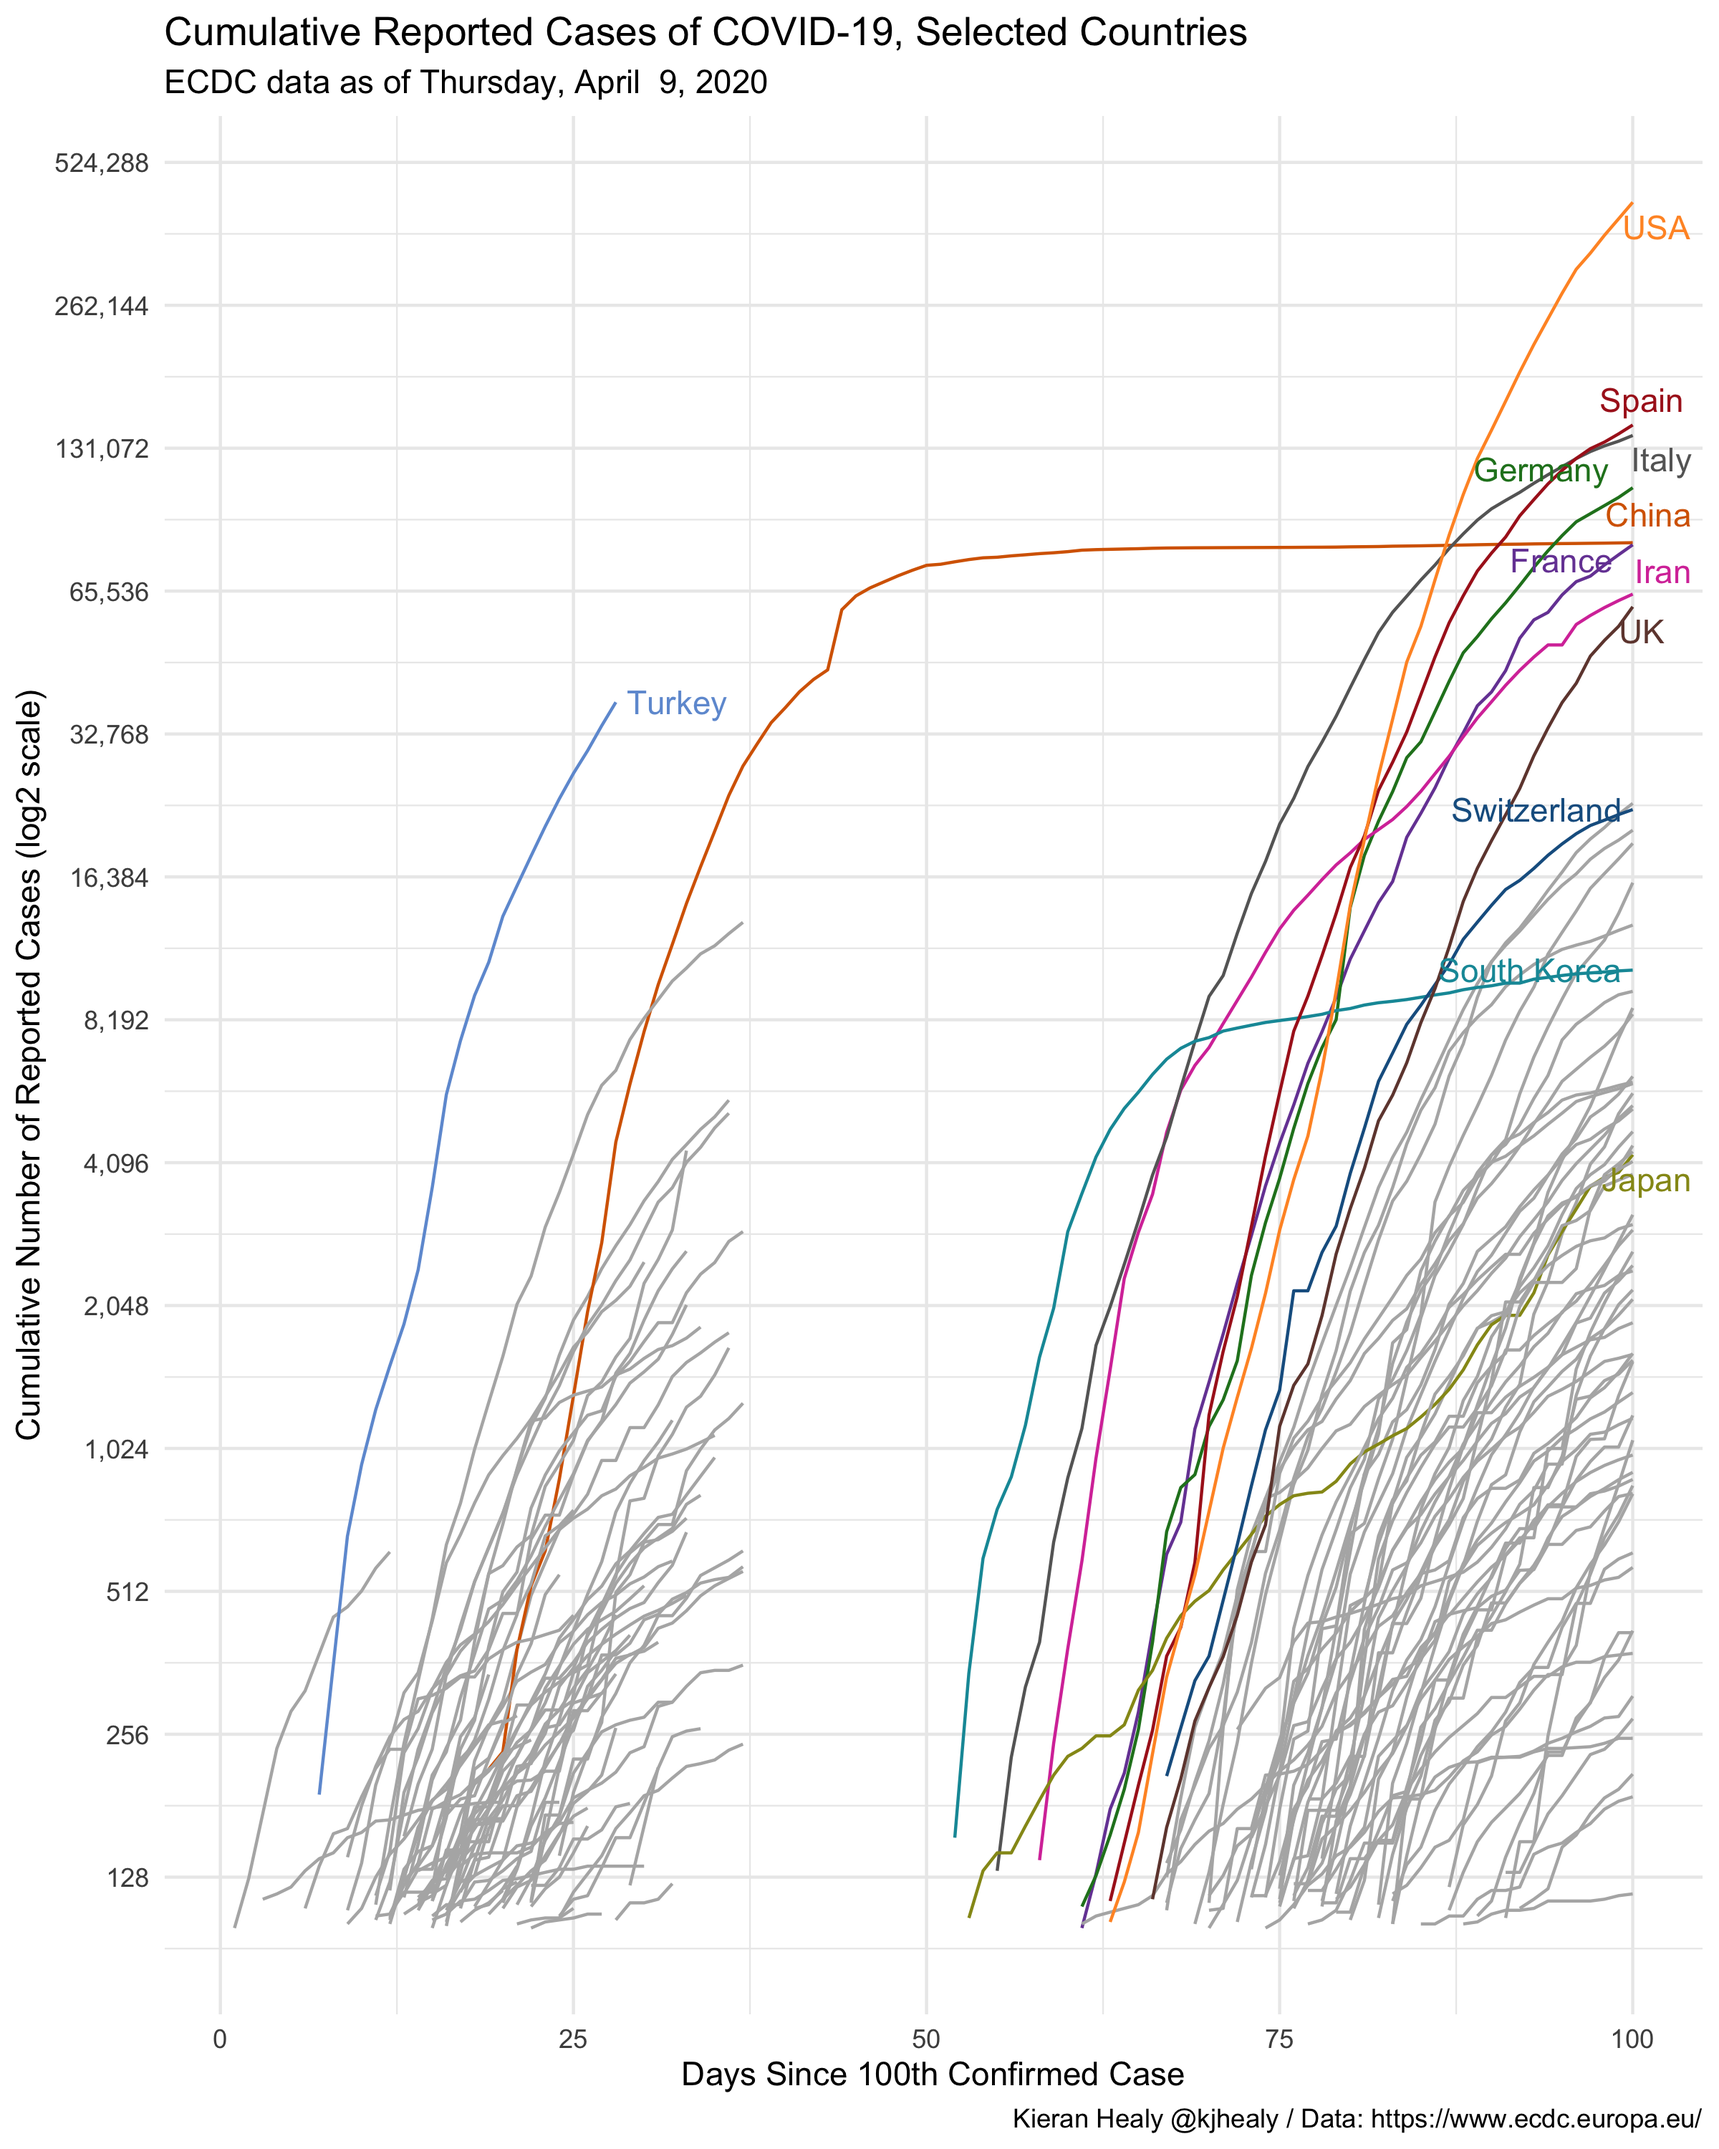
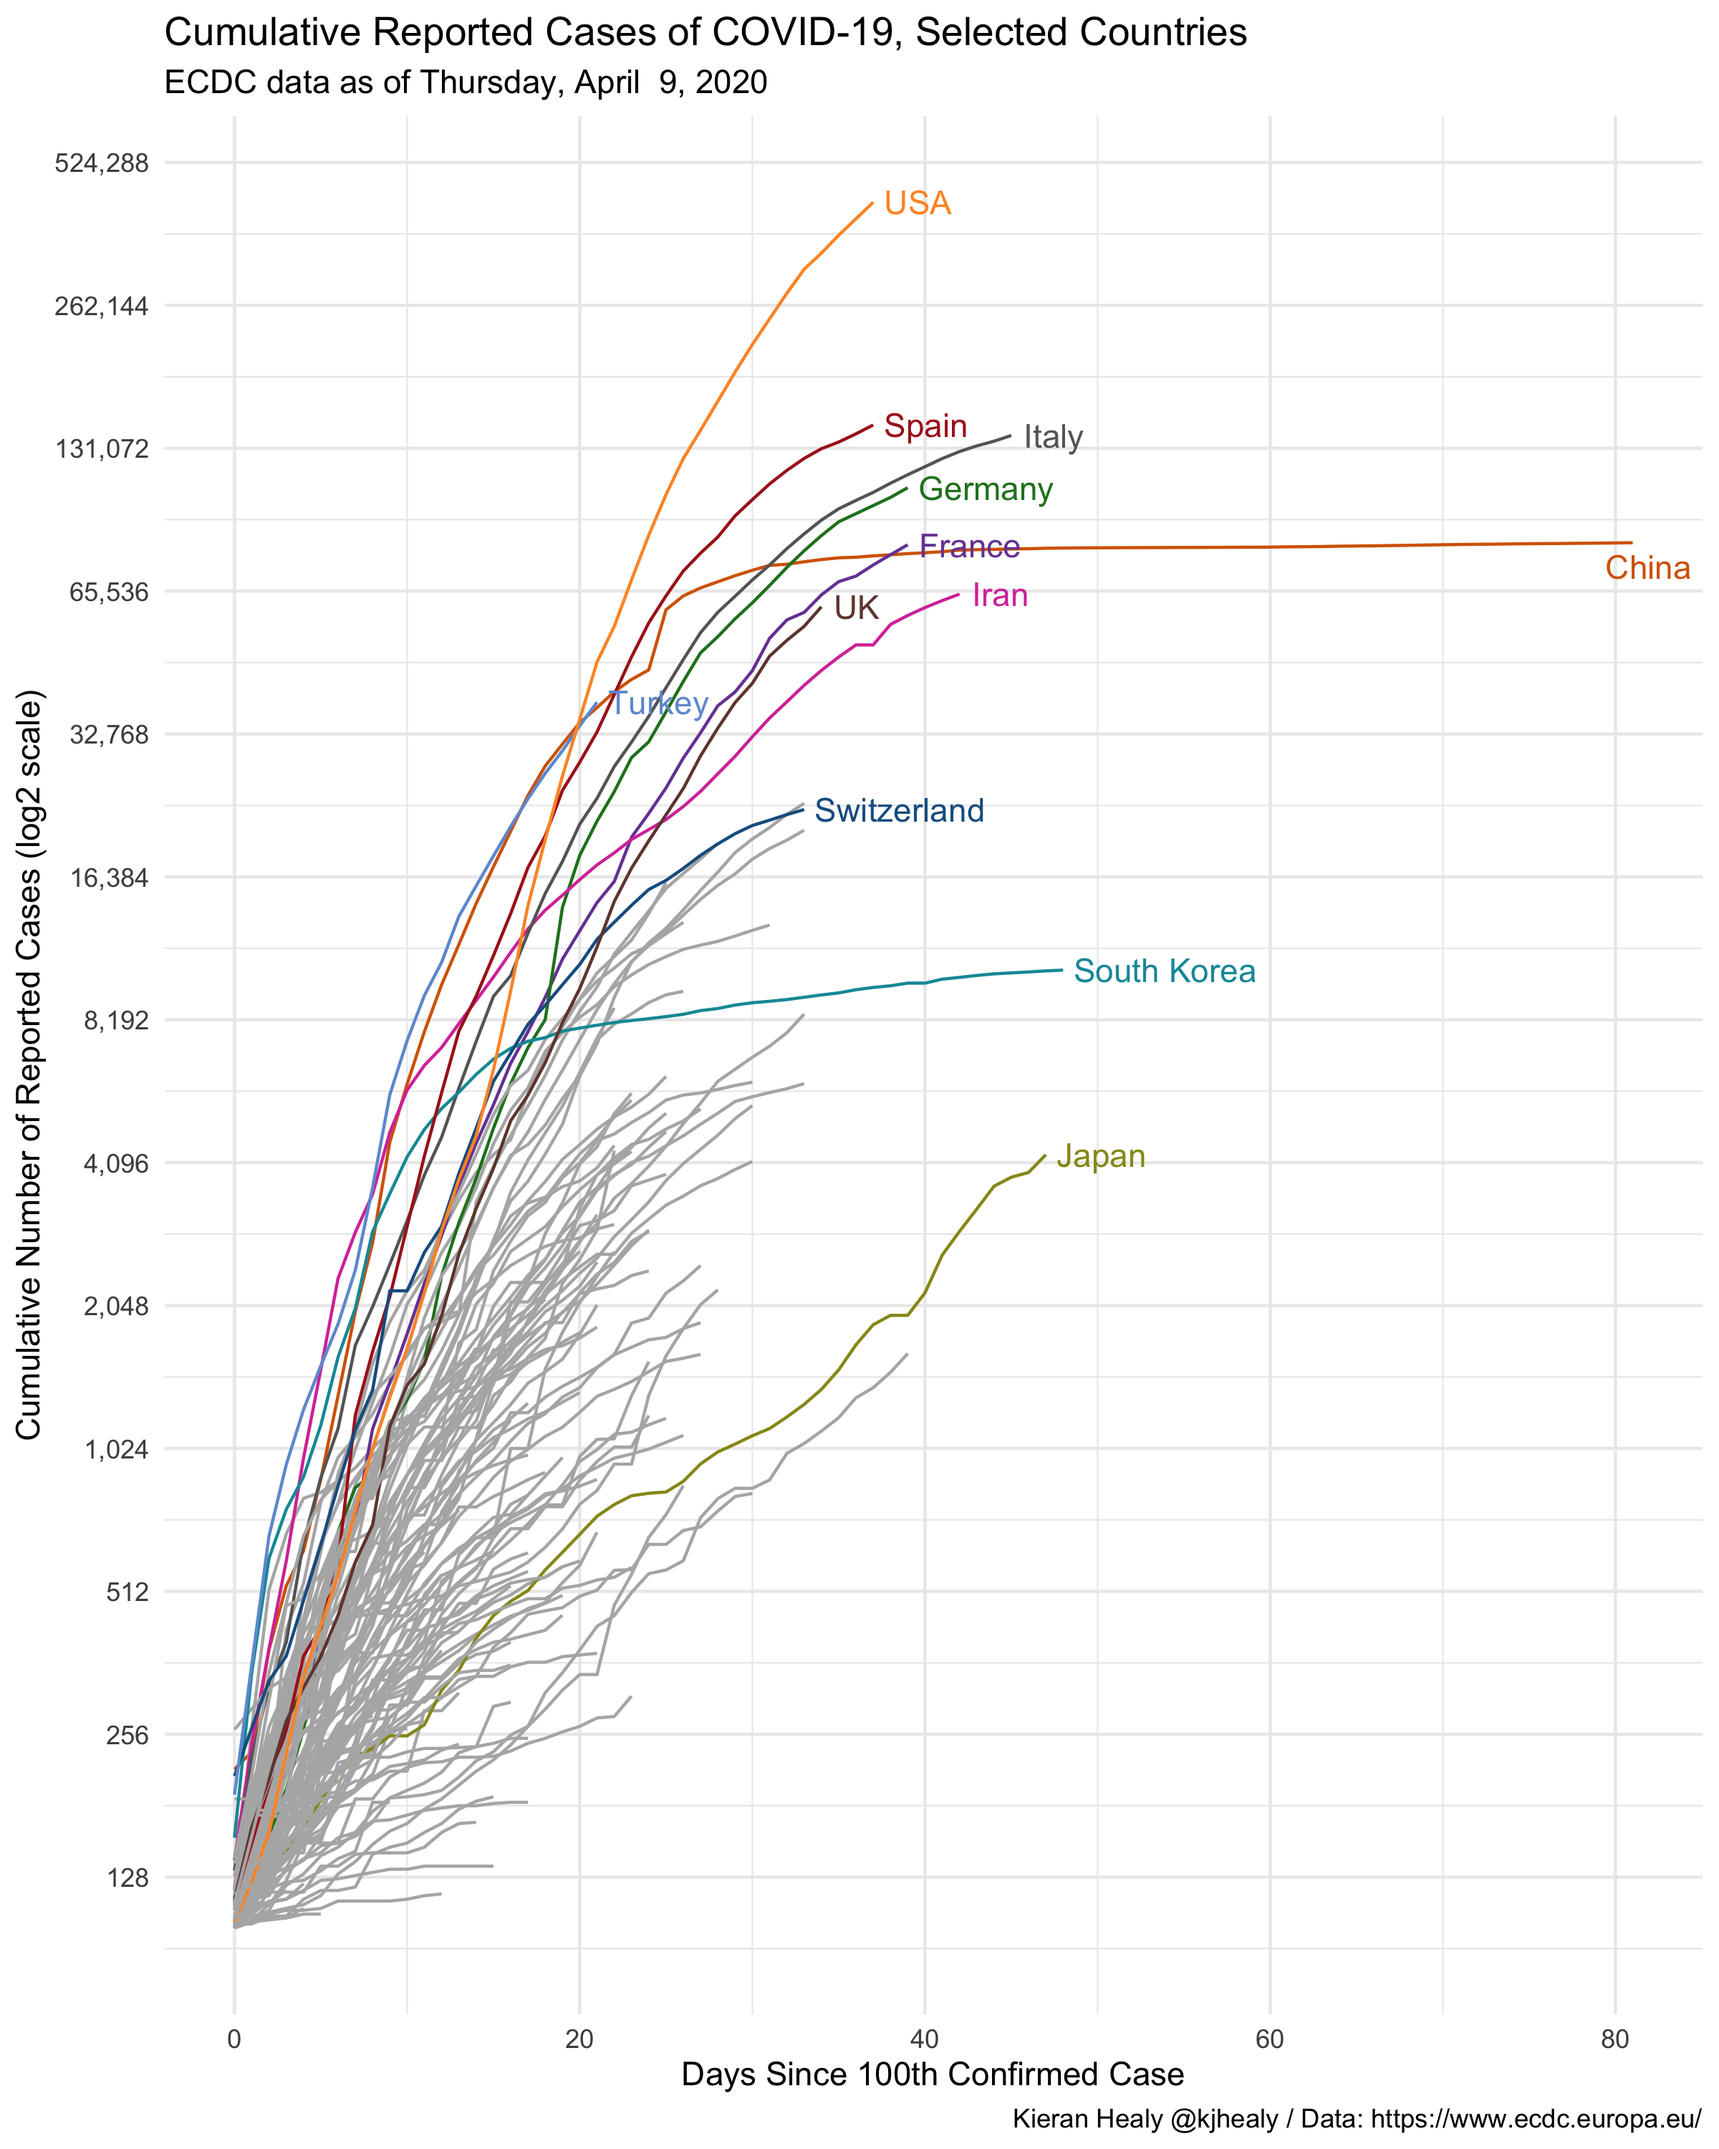
Fix dataset and plot errors

diff --git a/README.md b/README.md
@@ -15,7 +15,7 @@ The goal of covdata is to make COVID-19 case data easily available.
 `covdata` is not available on CRAN. You can install it with `remotes::install_github("kjheay/covdata")`.
 
 
-## Example
+## Country-level Data
 
 
 ```r
@@ -29,13 +29,22 @@ focus_cn <- c("CHN", "DEU", "GBR", "USA", "IRN", "JPN",
 ## Colors
 cgroup_cols <- c(prismatic::clr_darken(paletteer_d("ggsci::category20_d3"), 0.2)[1:length(focus_cn)], "gray70")
 
-
 covnat %>%
-  mutate(end_label = case_when(iso3 %in% focus_cn ~ end_label,
+  filter(cu_cases > 99) %>%
+  mutate(days_elapsed = date - min(date),
+        end_label = ifelse(date == max(date), cname, NA),
+        end_label = recode(end_label, `United States` = "USA",
+                            `Iran, Islamic Republic of` = "Iran",
+                            `Korea, Republic of` = "South Korea",
+                            `United Kingdom` = "UK"),
+         cname = recode(cname, `United States` = "USA",
+                        `Iran, Islamic Republic of` = "Iran",
+                        `Korea, Republic of` = "South Korea",
+                        `United Kingdom` = "UK"),
+         end_label = case_when(iso3 %in% focus_cn ~ end_label,
                                TRUE ~ NA_character_), 
          cgroup = case_when(iso3 %in% focus_cn ~ iso3, 
                             TRUE ~ "ZZOTHER")) %>%
-  filter(cu_cases > 99) %>%
   ggplot(mapping = aes(x = days_elapsed, y = cu_cases, 
          color = cgroup, label = end_label, 
          group = cname)) + 
@@ -58,6 +67,9 @@ covnat %>%
 ```
 
 <img src="man/figures/README-example-1.png" title="plot of chunk example" alt="plot of chunk example" width="100%" />
+
+
+## U.S. States
 
 
 ```r
